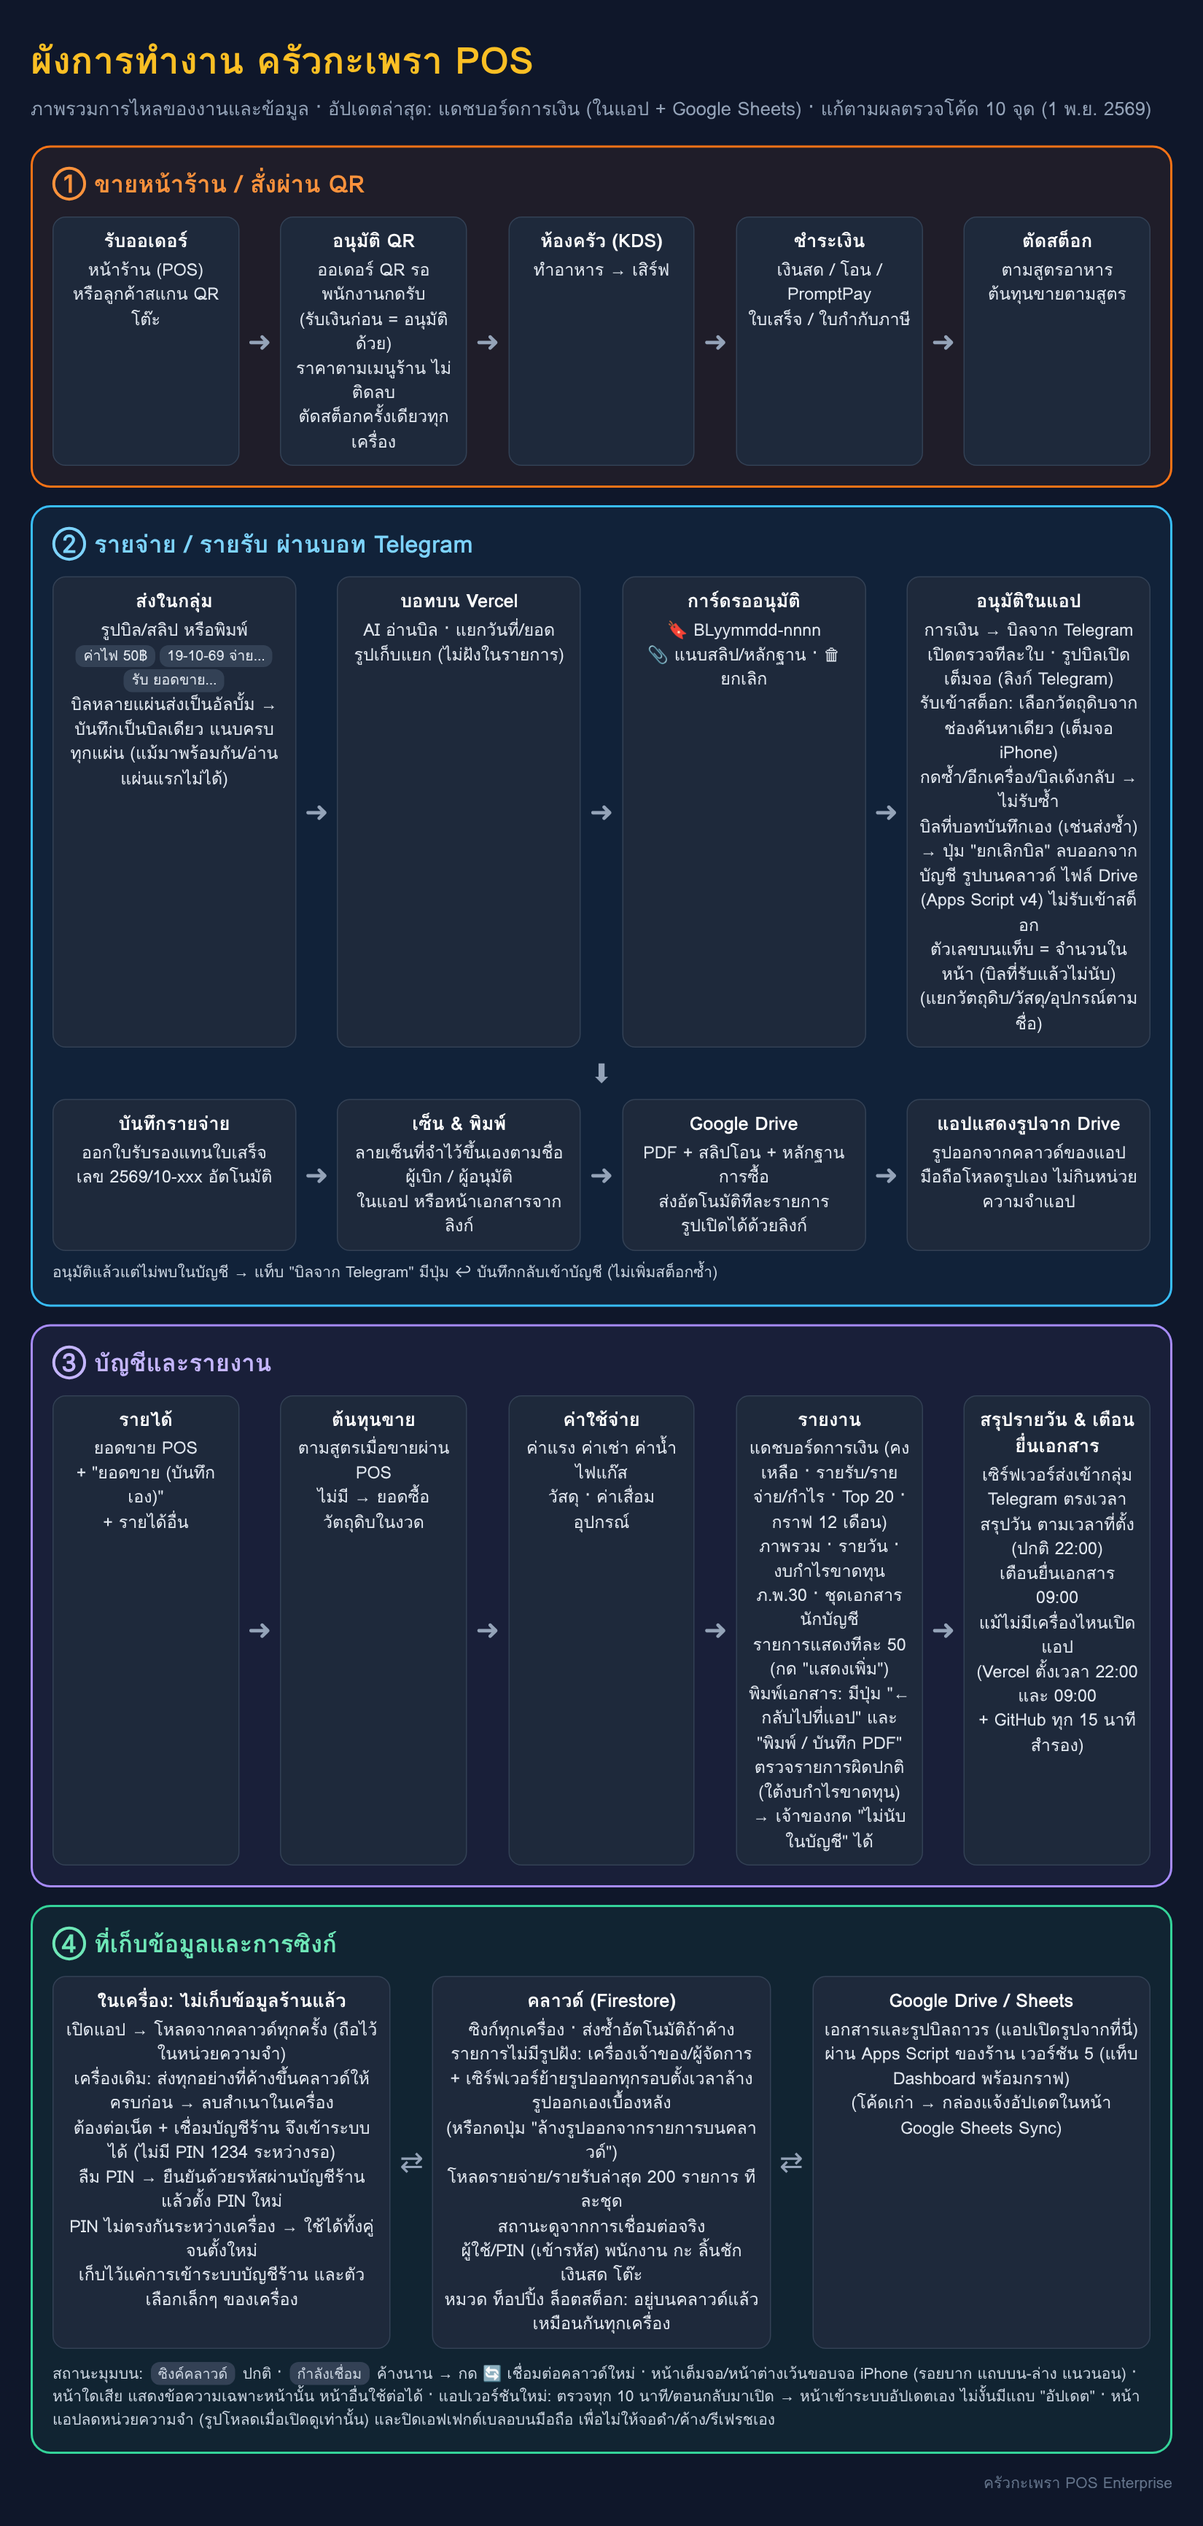
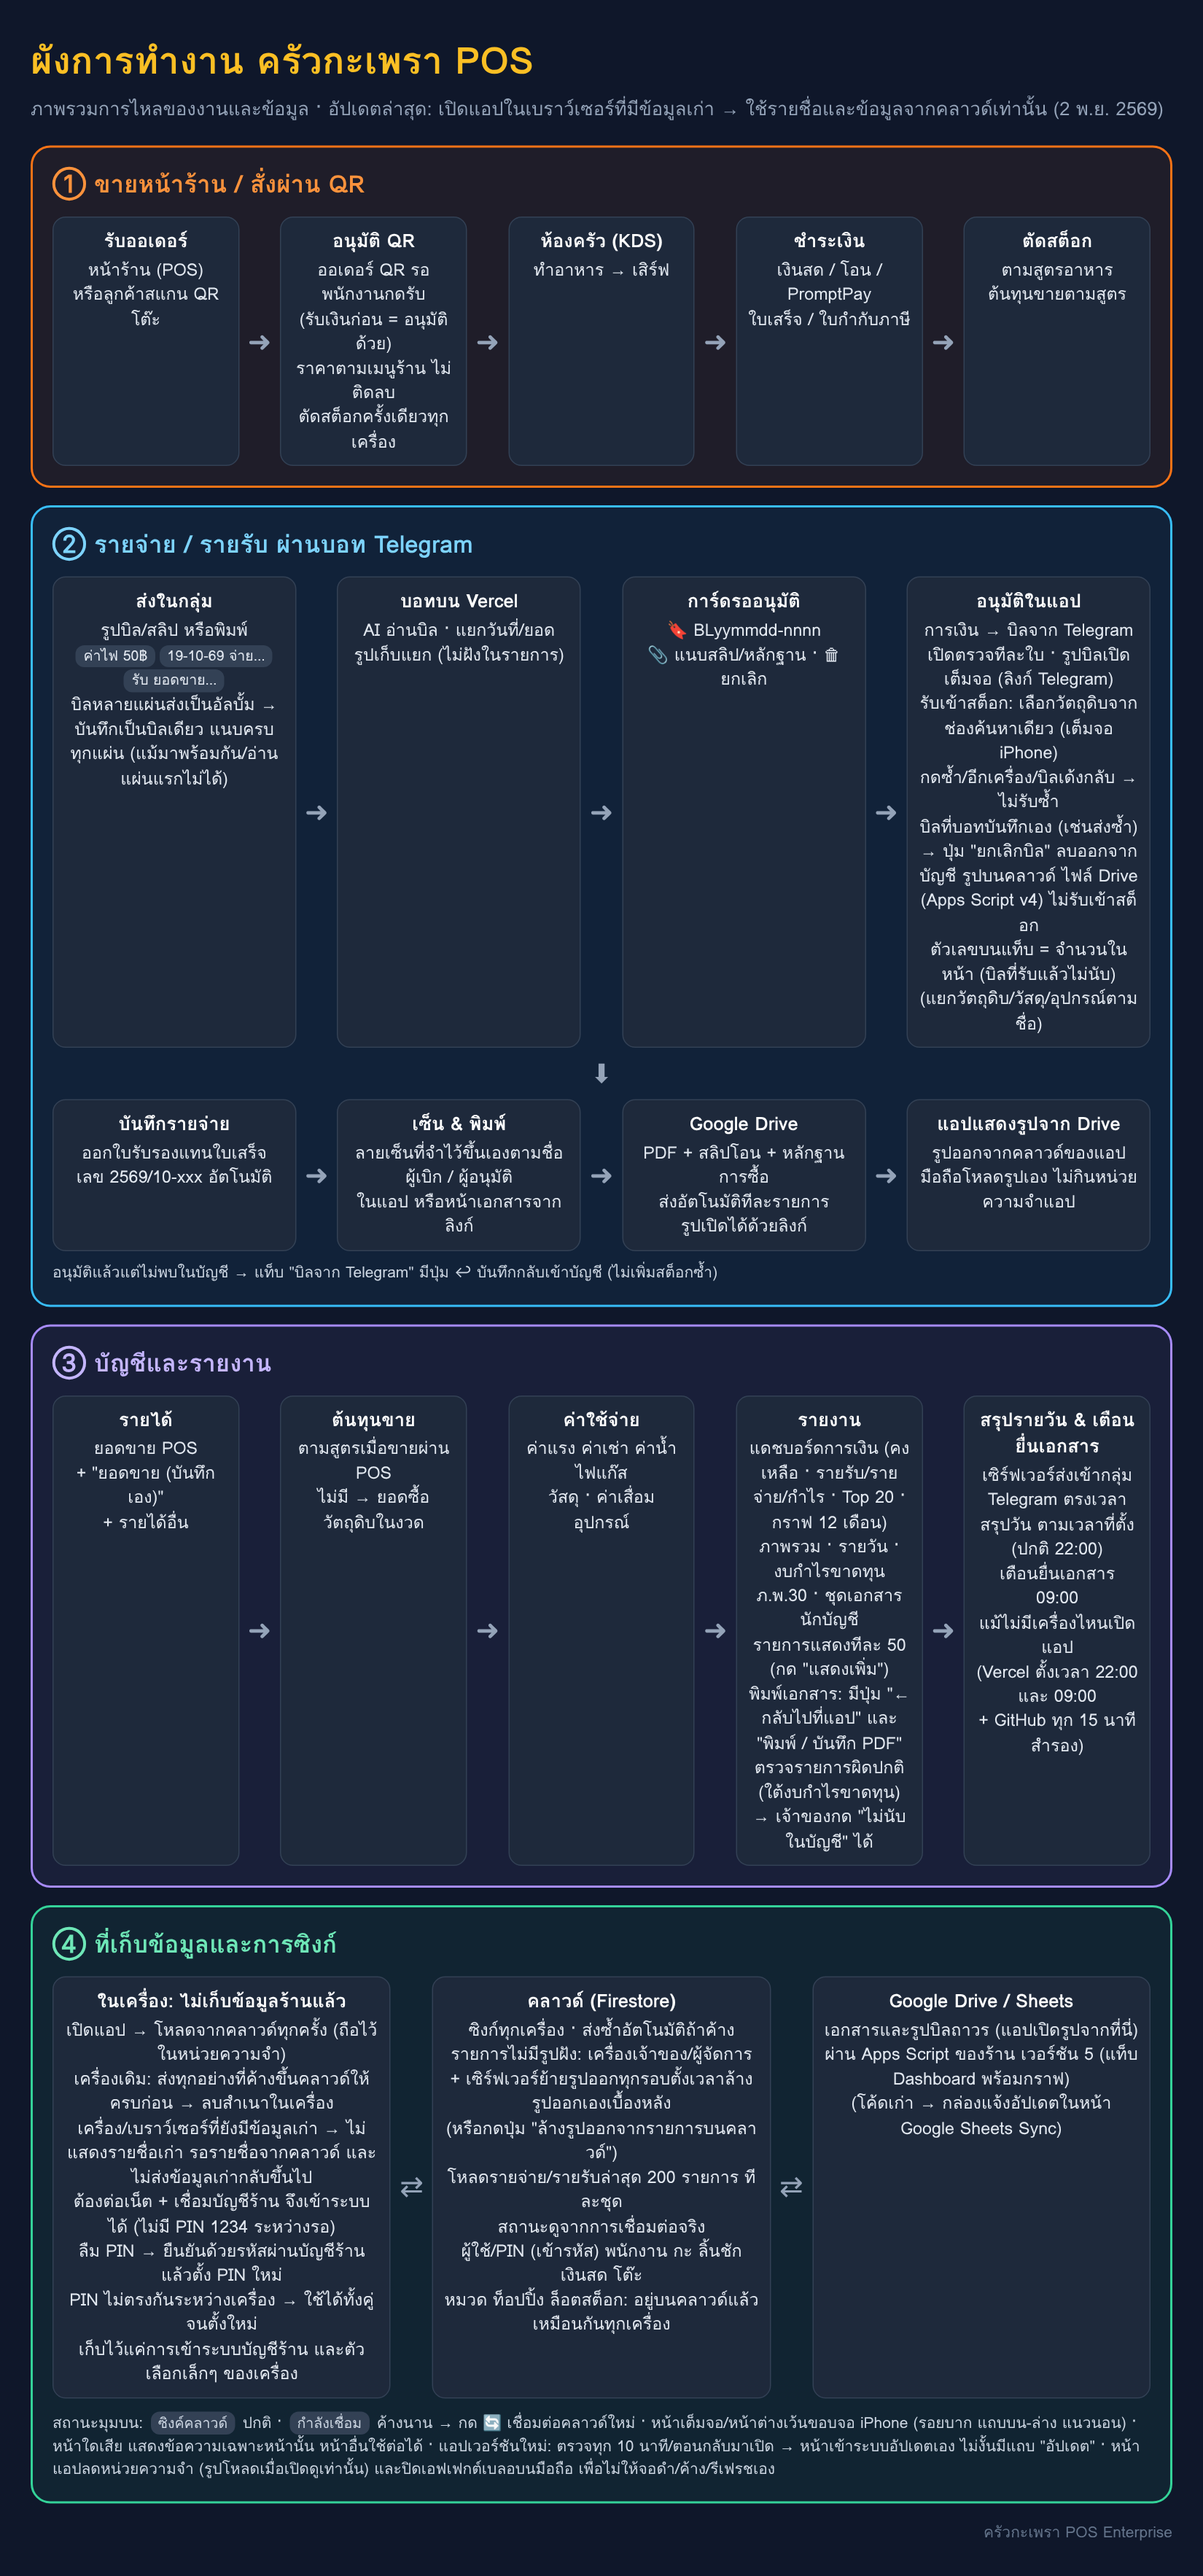
Old data on a device no longer shows or comes back: the cloud's people first
A browser or device that still held an older copy of the shop's data (e.g.
another browser on the phone) showed its old people and PINs at sign-in, and
on meeting the cloud would upload records the cloud no longer has.

- The shop is marked cloud-only (config/state_meta) by any device that keeps
  nothing; a device with an older copy waits for that answer before following
  the cloud's lists, then takes the cloud's lists (nothing of its own goes up
  or reorders them).
- Sign-in waits for the cloud's people (shop account) instead of showing the
  device's own list, unless the shop never moved to the cloud.
- Removing such a device's copy no longer uploads records missing from the
  cloud (they were removed there).

Claude-Session: https://claude.ai/code/session_01Gq3UvYW4wv3hsVCXoh5wxy

diff --git a/src/context/POSContext.tsx b/src/context/POSContext.tsx
@@ -93,6 +93,8 @@ import {
   syncAddOnsToFirestore,
   shopAccountRefreshToken,
   uploadMissingRecords,
+  readBranchDocFromServer,
+  mergeBranchDoc,
   cloudWritesDone,
   claimOnce,
   syncSettingsToFirestore,
@@ -1565,8 +1567,43 @@ export const POSProvider: React.FC<{ children: ReactNode }> = ({ children }) => 
   // The shop's own lists (people and PINs, staff, shifts, cash drawer, tables, categories,
   // toppings, stock lots…) in the cloud too, the same on every device: before, they lived only on
   // the device where they were made. PINs travel hashed.
-  const mirrorOn = isStorageLoaded && !effectiveOffline && isFirebaseAvailable();
   const mirrorBranch = currentBranch?.id;
+  /**
+   * The shop keeps its data only in the cloud (some device has removed its own copy): a device
+   * still holding an older copy (another browser, an old tablet) must not bring old people,
+   * PINs or lists back. Its lists take the cloud's, and only what it never sent goes up.
+   * null: not known yet (asked before the lists are followed).
+   */
+  const [cloudOnly, setCloudOnly] = useState<boolean | null>(retiredStart ? true : null);
+  useEffect(() => {
+    if (!isStorageLoaded || effectiveOffline || !mirrorBranch) return;
+    let alive = true;
+    let timer: ReturnType<typeof setTimeout> | undefined;
+    const ask = async () => {
+      if (!isFirebaseAvailable()) {
+        timer = setTimeout(() => void ask(), 15_000);
+        return;
+      }
+      const meta = await readBranchDocFromServer(mirrorBranch, 'state_meta');
+      if (!alive) return;
+      if (meta === undefined) {
+        // Not readable yet (e.g. the shop account is not signed in): asked again
+        timer = setTimeout(() => void ask(), 15_000);
+        return;
+      }
+      if (retiredStart) {
+        if (!meta?.cloudOnly) void mergeBranchDoc(mirrorBranch, 'state_meta', { cloudOnly: true, cloudOnlySince: new Date().toISOString() });
+        return;
+      }
+      setCloudOnly(!!meta?.cloudOnly);
+    };
+    void ask();
+    return () => {
+      alive = false;
+      if (timer) clearTimeout(timer);
+    };
+  }, [isStorageLoaded, effectiveOffline, mirrorBranch, retiredStart]);
+  const mirrorOn = isStorageLoaded && !effectiveOffline && isFirebaseAvailable() && cloudOnly !== null;
   const recentMonths = useMemo(() => {
     const now = new Date();
     return Array.from({ length: 13 }, (_, i) => {
@@ -1593,10 +1630,12 @@ export const POSProvider: React.FC<{ children: ReactNode }> = ({ children }) => 
     docOf: (x: any) => `${prefix}_${(monthOf(x) || '').slice(0, 7) || 'undated'}`,
     docs: [...months.map(m => `${prefix}_${m}`), `${prefix}_undated`]
   });
-  const mirror = { branchId: mirrorBranch, enabled: mirrorOn, trustCloud: retiredStart };
-  // Nobody can sign in with a built-in PIN while the people are still on their way from the cloud
-  const [usersReady, setUsersReady] = useState(!retiredStart);
-  const markUsersReady = useCallback(() => setUsersReady(true), []);
+  const mirror = { branchId: mirrorBranch, enabled: mirrorOn, trustCloud: retiredStart || cloudOnly === true };
+  // Nobody signs in with a built-in or old PIN while the people are still on their way from the
+  // cloud. Only a shop not yet in the cloud alone signs in with this device's own list
+  const [usersFromCloud, setUsersFromCloud] = useState(false);
+  const usersReady = usersFromCloud || (!retiredStart && cloudOnly === false);
+  const markUsersReady = useCallback(() => setUsersFromCloud(true), []);
   useCloudMirror<User>({ ...mirror, ...single('state_users'), items: users, setItems: setUsers, toCloud: cloudPin, prefer: preferChosenPin, ordered: true, seedIfMissing: () => INITIAL_USERS, onReady: markUsersReady });
   useCloudMirror<StaffMember>({ ...mirror, ...single('state_staff'), items: staffMembers, setItems: setStaffMembers, toCloud: cloudPin, prefer: preferChosenPin, ordered: true });
   useCloudMirror<Branch>({ ...mirror, ...single('state_branches'), items: branches, setItems: setBranches, ordered: true });
@@ -4360,11 +4399,15 @@ export const POSProvider: React.FC<{ children: ReactNode }> = ({ children }) => 
     }
     retiringRef.current = true;
     try {
-      const results = await Promise.all([
-        uploadMissingRecords('orders', orders, o => syncOrderToFirestore(o, currentBranch)),
-        uploadMissingRecords('expenses', expenses, e => syncExpenseToFirestore(e, currentBranch)),
-        uploadMissingRecords('incomes', incomes, i => syncIncomeToFirestore(i, currentBranch))
-      ]);
+      // Records the cloud does not have go up only while the shop is moving to the cloud: once it
+      // keeps its data only there, a record missing from it was removed (not brought back)
+      const results = cloudOnly
+        ? []
+        : await Promise.all([
+            uploadMissingRecords('orders', orders, o => syncOrderToFirestore(o, currentBranch)),
+            uploadMissingRecords('expenses', expenses, e => syncExpenseToFirestore(e, currentBranch)),
+            uploadMissingRecords('incomes', incomes, i => syncIncomeToFirestore(i, currentBranch))
+          ]);
       if (results.some(r => r.failed > 0)) {
         console.warn('[Local data] Some records could not be checked or sent; trying again later', results);
         return;
@@ -4373,6 +4416,7 @@ export const POSProvider: React.FC<{ children: ReactNode }> = ({ children }) => 
       await retireBigStore();
       await retireImageStore();
       setLocalRetired(true);
+      void mergeBranchDoc(currentBranch.id, 'state_meta', { cloudOnly: true, cloudOnlySince: new Date().toISOString() });
       console.info('[Local data] Everything is in the cloud: this device no longer keeps the shop\'s data', results);
     } catch (err) {
       console.warn('[Local data] Not removed this time:', err);

diff --git a/docs/workflow/flow.html b/docs/workflow/flow.html
@@ -17,7 +17,7 @@ h1{margin:0 0 4px;font-size:34px;color:#fbbf24}.sub{color:#94a3b8;font-size:17px
 .foot{color:#64748b;font-size:14px;margin-top:6px;text-align:right}
 </style></head><body>
 <h1>ผังการทำงาน ครัวกะเพรา POS</h1>
-<div class="sub">ภาพรวมการไหลของงานและข้อมูล · อัปเดตล่าสุด: แดชบอร์ดการเงิน (ในแอป + Google Sheets) · แก้ตามผลตรวจโค้ด 10 จุด (1 พ.ย. 2569)</div>
+<div class="sub">ภาพรวมการไหลของงานและข้อมูล · อัปเดตล่าสุด: เปิดแอปในเบราว์เซอร์ที่มีข้อมูลเก่า → ใช้รายชื่อและข้อมูลจากคลาวด์เท่านั้น (2 พ.ย. 2569)</div>
 
 <div class="lane pos"><h2>① ขายหน้าร้าน / สั่งผ่าน QR</h2>
 <div class="row">
@@ -56,7 +56,7 @@ h1{margin:0 0 4px;font-size:34px;color:#fbbf24}.sub{color:#94a3b8;font-size:17px
 
 <div class="lane data"><h2>④ ที่เก็บข้อมูลและการซิงก์</h2>
 <div class="row">
-<div class="box"><b>ในเครื่อง: ไม่เก็บข้อมูลร้านแล้ว</b>เปิดแอป → โหลดจากคลาวด์ทุกครั้ง (ถือไว้ในหน่วยความจำ)<br>เครื่องเดิม: ส่งทุกอย่างที่ค้างขึ้นคลาวด์ให้ครบก่อน → ลบสำเนาในเครื่อง<br>ต้องต่อเน็ต + เชื่อมบัญชีร้าน จึงเข้าระบบได้ (ไม่มี PIN 1234 ระหว่างรอ)<br>ลืม PIN → ยืนยันด้วยรหัสผ่านบัญชีร้าน แล้วตั้ง PIN ใหม่<br>PIN ไม่ตรงกันระหว่างเครื่อง → ใช้ได้ทั้งคู่จนตั้งใหม่<br>เก็บไว้แค่การเข้าระบบบัญชีร้าน และตัวเลือกเล็กๆ ของเครื่อง</div><div class="ar">⇄</div>
+<div class="box"><b>ในเครื่อง: ไม่เก็บข้อมูลร้านแล้ว</b>เปิดแอป → โหลดจากคลาวด์ทุกครั้ง (ถือไว้ในหน่วยความจำ)<br>เครื่องเดิม: ส่งทุกอย่างที่ค้างขึ้นคลาวด์ให้ครบก่อน → ลบสำเนาในเครื่อง<br>เครื่อง/เบราว์เซอร์ที่ยังมีข้อมูลเก่า → ไม่แสดงรายชื่อเก่า รอรายชื่อจากคลาวด์ และไม่ส่งข้อมูลเก่ากลับขึ้นไป<br>ต้องต่อเน็ต + เชื่อมบัญชีร้าน จึงเข้าระบบได้ (ไม่มี PIN 1234 ระหว่างรอ)<br>ลืม PIN → ยืนยันด้วยรหัสผ่านบัญชีร้าน แล้วตั้ง PIN ใหม่<br>PIN ไม่ตรงกันระหว่างเครื่อง → ใช้ได้ทั้งคู่จนตั้งใหม่<br>เก็บไว้แค่การเข้าระบบบัญชีร้าน และตัวเลือกเล็กๆ ของเครื่อง</div><div class="ar">⇄</div>
 <div class="box"><b>คลาวด์ (Firestore)</b>ซิงก์ทุกเครื่อง · ส่งซ้ำอัตโนมัติถ้าค้าง<br>รายการไม่มีรูปฝัง: เครื่องเจ้าของ/ผู้จัดการ<br>+ เซิร์ฟเวอร์ย้ายรูปออกทุกรอบตั้งเวลาล้างรูปออกเองเบื้องหลัง<br>(หรือกดปุ่ม "ล้างรูปออกจากรายการบนคลาวด์")<br>โหลดรายจ่าย/รายรับล่าสุด 200 รายการ ทีละชุด<br>สถานะดูจากการเชื่อมต่อจริง<br>ผู้ใช้/PIN (เข้ารหัส) พนักงาน กะ ลิ้นชักเงินสด โต๊ะ<br>หมวด ท็อปปิ้ง ล็อตสต็อก: อยู่บนคลาวด์แล้ว เหมือนกันทุกเครื่อง</div><div class="ar">⇄</div>
 <div class="box"><b>Google Drive / Sheets</b>เอกสารและรูปบิลถาวร (แอปเปิดรูปจากที่นี่)<br>ผ่าน Apps Script ของร้าน เวอร์ชัน 5 (แท็บ Dashboard พร้อมกราฟ)<br>(โค้ดเก่า → กล่องแจ้งอัปเดตในหน้า Google Sheets Sync)</div>
 </div>

diff --git a/src/services/firebaseService.ts b/src/services/firebaseService.ts
@@ -2121,6 +2121,18 @@ export async function removeBranchDocFields(branchId: string, key: string, paths
   }
 }
 
+/** A shared document from the server: its data (null when there is none), or undefined when it could not be read */
+export async function readBranchDocFromServer(branchId: string, key: string): Promise<DocumentData | null | undefined> {
+  if (!dbInstance || !navigator.onLine) return undefined;
+  await waitForFirebaseAuth();
+  try {
+    const snap = await getDocFromServer(doc(dbInstance, 'branches', branchId, 'config', key));
+    return snap.exists() ? snap.data() : null;
+  } catch {
+    return undefined;
+  }
+}
+
 export async function loadBranchDoc(branchId: string, key: string): Promise<DocumentData | null> {
   if (!dbInstance || !navigator.onLine) return null;
   await waitForFirebaseAuth();
